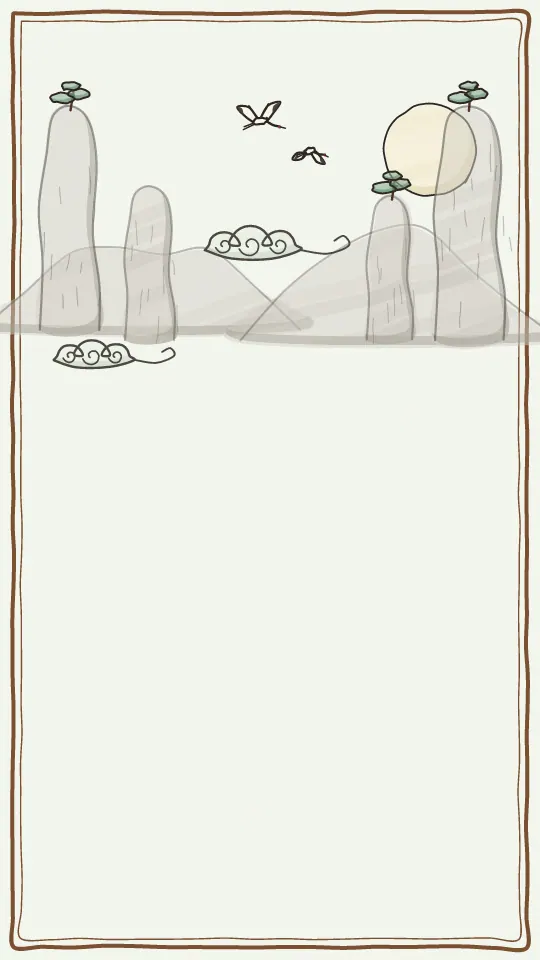
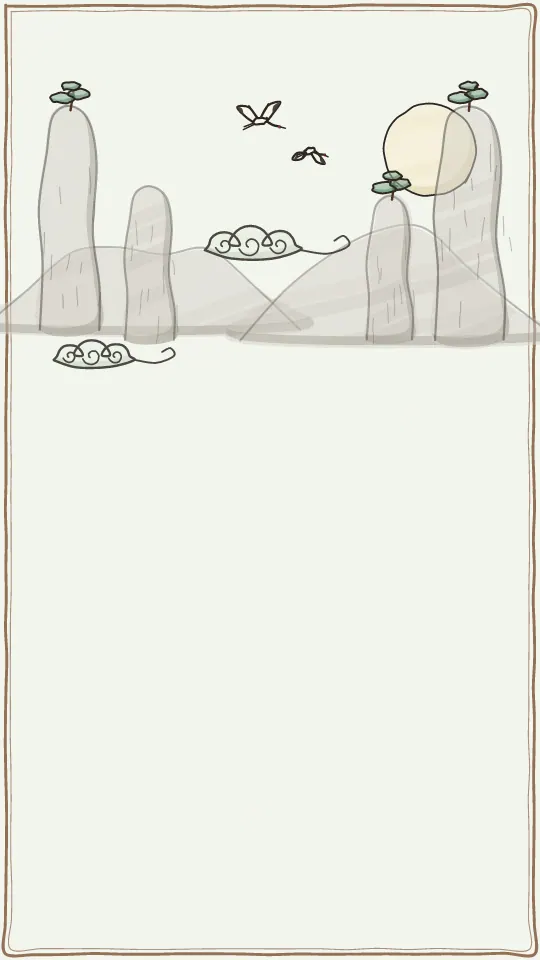
測試版 0.9.7：修正文字與背景重疊
- 背景雙框改貼紙邊、變淡，不再從頂列按鈕與底部文字底下穿過
- 拿掉匾額上方的紅繩；主畫面底部那行、榜單版本號上移
- 各頁背景先蓋一層薄紙，頁首標題與說明加紙色描邊

Claude-Session: https://claude.ai/code/session_01QeYf7TbzB4pn5K453Ysv8T

Changed region(s): [[0.0, 0.0, 1.0, 1.0]]

diff --git a/src/scenes/LeaderboardScene.ts b/src/scenes/LeaderboardScene.ts
@@ -100,7 +100,7 @@ export class LeaderboardScene extends Phaser.Scene {
     this.rows = [];
 
     const cx = GAME_WIDTH / 2;
-    this.add.text(cx, 44, '榜　單', textStyle({ size: 36, color: INK, bold: true })).setOrigin(0.5);
+    this.add.text(cx, 44, '榜　單', textStyle({ size: 36, color: INK, bold: true })).setStroke('#fdfbf6', 8).setOrigin(0.5);
 
     // 三個分頁。同一頁塞三種排序會讓人看不出現在在看什麼，
     // 而三個榜回答的是三個不同的問題：走得多深、多快、撐得多久。
@@ -170,7 +170,7 @@ export class LeaderboardScene extends Phaser.Scene {
       });
       this.add
         .text(cx, 122, `第 ${track} 關`, textStyle({ size: 17, color: JADE, bold: true }))
-        .setOrigin(0.5);
+        .setStroke('#fdfbf6', 6).setOrigin(0.5);
 
       // **速通榜要能成立就需要這一顆。**
       //
@@ -213,12 +213,14 @@ export class LeaderboardScene extends Phaser.Scene {
           : `你最深到第 ${save.world.highestStage} 關`,
         textStyle({ size: 22, color: GOLD, bold: true }),
       )
+      .setStroke('#fdfbf6', 6)
       .setOrigin(0.5);
 
     // 「我到底有沒有上榜」是這一頁最常被問的問題，而原本這裡完全沒有回答——
     // 玩家只看得到別人的名次，看不出自己缺了什麼、或是根本已經在榜上了。
     this.mine = this.add
       .text(cx, 174 + shift, '', textStyle({ size: 15, color: INK_DIM }))
+      .setStroke('#fdfbf6', 5)
       .setOrigin(0.5);
 
 
@@ -317,7 +319,7 @@ export class LeaderboardScene extends Phaser.Scene {
     // 一個數字就解決：和伺服器對不上時，它就是那句話的證據。
     this.add
       // 放在右下角、按鈕底緣（933）以下：置中的話會被返回鍵的立體邊壓掉半行。
-      .text(GAME_WIDTH - 16, GAME_HEIGHT - 12, `版本 ${REPLAY_CONTRACT_VERSION}`, textStyle({ size: 13, color: INK_DIM }))
+      .text(GAME_WIDTH - 22, GAME_HEIGHT - 24, `版本 ${REPLAY_CONTRACT_VERSION}`, textStyle({ size: 13, color: INK_DIM }))
       .setOrigin(1, 0.5)
       .setAlpha(0.7);
 

diff --git a/src/scenes/TalismanScene.ts b/src/scenes/TalismanScene.ts
@@ -143,7 +143,7 @@ export class TalismanScene extends Phaser.Scene {
     this.activeSlot = 0;
 
     const cx = GAME_WIDTH / 2;
-    this.add.text(cx, 40, '符籙譜', textStyle({ size: 34, color: INK, bold: true })).setOrigin(0.5);
+    this.add.text(cx, 40, '符籙譜', textStyle({ size: 34, color: INK, bold: true })).setStroke('#fdfbf6', 8).setOrigin(0.5);
     const upcoming = nextUnlock(highest);
     this.add
       .text(
@@ -155,7 +155,7 @@ export class TalismanScene extends Phaser.Scene {
           : `每次帶 ${TALISMAN_SLOTS} 張入場　藏經閣第 ${highest + 1} 層可得「${upcoming.name}」`,
         textStyle({ size: 16, color: INK_DIM }),
       )
-      .setOrigin(0.5);
+      .setStroke('#fdfbf6', 6).setOrigin(0.5);
 
     this.buildSectLine(cx);
     this.buildChosenSlots(cx);
@@ -215,7 +215,7 @@ export class TalismanScene extends Phaser.Scene {
     const gain = Math.round((sect.favoredDamageMultiplier - 1) * 100);
     this.sectLine = this.add
       .text(cx, 92, '', textStyle({ size: 15, bold: true }))
-      .setOrigin(0.5)
+      .setStroke('#fdfbf6', 6).setOrigin(0.5)
       .setData('sect', sect.name)
       .setData('favored', favored.name)
       .setData('gain', gain);

diff --git a/src/scenes/SectScene.ts b/src/scenes/SectScene.ts
@@ -52,11 +52,11 @@ export class SectScene extends Phaser.Scene {
     this.selected = SECTS.find((sect) => sect.id === save.player.sectId) ?? null;
 
     const cx = GAME_WIDTH / 2;
-    this.add.text(cx, 74, '拜入師門', textStyle({ size: 42, color: INK, bold: true })).setOrigin(0.5);
+    this.add.text(cx, 74, '拜入師門', textStyle({ size: 42, color: INK, bold: true })).setStroke('#fdfbf6', 8).setOrigin(0.5);
     // 門派修為與換派費用要先講清楚，玩家才會知道這個選擇是有份量的。
     this.add
       .text(cx, 118, '門派修為只長在自己身上——換派要付錢，但舊修為留著', textStyle({ size: 17, color: INK_DIM }))
-      .setOrigin(0.5);
+      .setStroke('#fdfbf6', 6).setOrigin(0.5);
     this.brought = sanitizeTalismans(save.player.talismans, libraryFloor(save));
 
     // 四張卡 + 底部兩顆按鈕要塞進 960：140 起、每張 168 高、間距 6，

diff --git a/src/scenes/UpgradeScene.ts b/src/scenes/UpgradeScene.ts
@@ -63,8 +63,8 @@ export class UpgradeScene extends Phaser.Scene {
     drawBackdrop(this, realm);
 
     const cx = GAME_WIDTH / 2;
-    this.add.text(cx, 56, '洞府', textStyle({ size: 42, color: INK, bold: true })).setOrigin(0.5);
-    this.goldText = this.add.text(cx, 104, '', textStyle({ size: 26, color: GOLD })).setOrigin(0.5);
+    this.add.text(cx, 56, '洞府', textStyle({ size: 42, color: INK, bold: true })).setStroke('#fdfbf6', 8).setOrigin(0.5);
+    this.goldText = this.add.text(cx, 104, '', textStyle({ size: 26, color: GOLD })).setStroke('#fdfbf6', 6).setOrigin(0.5);
 
     // 六條線 + 摘要 + 兩顆按鈕要塞進 960，因此列高與間距是算過的：
     // 140 起、每列 96 高、間距 8，最後一列底緣落在 756，剛好把 770 以下讓給摘要與按鈕。

diff --git a/src/scenes/TitleScene.ts b/src/scenes/TitleScene.ts
@@ -142,7 +142,7 @@ export class TitleScene extends Phaser.Scene {
     this.add
       .text(
         cx,
-        GAME_HEIGHT - 16,
+        GAME_HEIGHT - 30,
         `最高境界 ${realmTitle(save.world.highestStage)} · 通關 ${save.world.clears} 次 · ${APP_VERSION}`,
         textStyle({ size: 17, color: INK_DIM }),
       )
@@ -221,7 +221,7 @@ export class TitleScene extends Phaser.Scene {
         `金幣 ${formatNumber(save.player.wallet.gold)}`,
         textStyle({ size: 18, color: GOLD }),
       )
-      .setOrigin(0, 0.5);
+      .setStroke('#fdfbf6', 6).setOrigin(0, 0.5);
 
     // 靈石：點了進藏寶閣。和金幣同一列，但它是個入口，所以做成按鈕。
     createButton(this, GAME_WIDTH - 150, 36, {

diff --git a/src/scenes/AchievementScene.ts b/src/scenes/AchievementScene.ts
@@ -52,8 +52,8 @@ export class AchievementScene extends Phaser.Scene {
     drawBackdrop(this, realm);
 
     const cx = GAME_WIDTH / 2;
-    this.add.text(cx, 46, '仙途錄', textStyle({ size: 40, color: INK, bold: true })).setOrigin(0.5);
-    this.header = this.add.text(cx, 92, '', textStyle({ size: 20, color: GOLD })).setOrigin(0.5);
+    this.add.text(cx, 46, '仙途錄', textStyle({ size: 40, color: INK, bold: true })).setStroke('#fdfbf6', 8).setOrigin(0.5);
+    this.header = this.add.text(cx, 92, '', textStyle({ size: 20, color: GOLD })).setStroke('#fdfbf6', 6).setOrigin(0.5);
 
     // 條目放進一個可拖曳的容器，並用遮罩裁掉清單範圍以外的部分。
     const viewTop = 122;

diff --git a/src/scenes/HelpScene.ts b/src/scenes/HelpScene.ts
@@ -282,7 +282,7 @@ export class HelpScene extends Phaser.Scene {
     const cx = GAME_WIDTH / 2;
     this.add
       .text(cx, 46, "玩法說明", textStyle({ size: 40, color: INK, bold: true }))
-      .setOrigin(0.5);
+      .setStroke('#fdfbf6', 8).setOrigin(0.5);
     this.add
       .text(
         cx,
@@ -290,7 +290,7 @@ export class HelpScene extends Phaser.Scene {
         "完整規則，隨時查閱（教學會在用得到的那一關自己出現）",
         textStyle({ size: 16, color: INK_DIM }),
       )
-      .setOrigin(0.5);
+      .setStroke('#fdfbf6', 6).setOrigin(0.5);
 
     const viewTop = 122;
     // 底部留給「可捲動」提示與按鈕，遮罩下緣不能貼著它們。

diff --git a/src/scenes/DungeonScene.ts b/src/scenes/DungeonScene.ts
@@ -63,7 +63,7 @@ export class DungeonScene extends Phaser.Scene {
     const cx = GAME_WIDTH / 2;
     this.add
       .text(cx, 44, "副　本", textStyle({ size: 36, color: INK, bold: true }))
-      .setOrigin(0.5);
+      .setStroke('#fdfbf6', 8).setOrigin(0.5);
     this.add
       .text(
         cx,
@@ -71,7 +71,7 @@ export class DungeonScene extends Phaser.Scene {
         "關卡由副本決定，不能挑",
         textStyle({ size: 16, color: INK_DIM }),
       )
-      .setOrigin(0.5);
+      .setStroke('#fdfbf6', 6).setOrigin(0.5);
 
     DUNGEONS.forEach((dungeon, index) => {
       this.buildCard(dungeon, LIST_TOP + index * (CARD_HEIGHT + CARD_GAP));

diff --git a/src/scenes/ResultScene.ts b/src/scenes/ResultScene.ts
@@ -685,7 +685,7 @@ export class ResultScene extends Phaser.Scene {
           "戰　報",
           textStyle({ size: 38, color: GOLD, bold: true }),
         )
-        .setOrigin(0.5),
+        .setStroke('#fdfbf6', 8).setOrigin(0.5),
     );
     parts.push(
       this.add
@@ -696,7 +696,7 @@ export class ResultScene extends Phaser.Scene {
             `平均每秒 ${formatNumber(averageDps(telemetry, result.elapsedMs))}`,
           textStyle({ size: 17, color: INK_DIM }),
         )
-        .setOrigin(0.5),
+        .setStroke('#fdfbf6', 6).setOrigin(0.5),
     );
 
     parts.push(...this.buildDamageBars(cx, 150, telemetry));

diff --git a/src/scenes/ArchiveScene.ts b/src/scenes/ArchiveScene.ts
@@ -49,7 +49,7 @@ export class ArchiveScene extends Phaser.Scene {
     this.cloudStatus = undefined;
 
     const cx = GAME_WIDTH / 2;
-    this.add.text(cx, 40, '存　檔', textStyle({ size: 36, color: INK, bold: true })).setOrigin(0.5);
+    this.add.text(cx, 40, '存　檔', textStyle({ size: 36, color: INK, bold: true })).setStroke('#fdfbf6', 8).setOrigin(0.5);
 
     this.buildRecords(cx, RECORDS_TOP);
     // 存檔碼、雲端存檔與匿名統計各自墊一塊面板：說明字直接寫在遠景上，

diff --git a/src/ui/backdrop.ts b/src/ui/backdrop.ts
@@ -45,6 +45,9 @@ export function drawBackdrop(scene: Phaser.Scene, realm: BackdropRealm): Phaser.
     layer.add(scene.add.rectangle(0, 0, GAME_WIDTH, GAME_HEIGHT, PAPER).setOrigin(0, 0));
   }
   const fade = scene.add.graphics();
+  // 整張先蓋一層薄紙：麥克筆畫風的遠景顏色比彩鉛深，不蓋的話頁首的標題、說明會壓在竹子和山上讀不清
+  fade.fillStyle(PAPER, 0.66);
+  fade.fillRect(0, 0, GAME_WIDTH, GAME_HEIGHT);
   drawFade(fade, 0.5);
   layer.add(fade);
 

diff --git a/src/config.ts b/src/config.ts
@@ -42,4 +42,4 @@ export function aspectRatio(width: number, height: number): number {
  * 版本標示。測試期間寫在主畫面最下面：玩家回報問題時要說得出是哪一版，
  * 而截圖是他們最常給的東西。
  */
-export const APP_VERSION = '測試版 0.9.6';
+export const APP_VERSION = '測試版 0.9.7';
